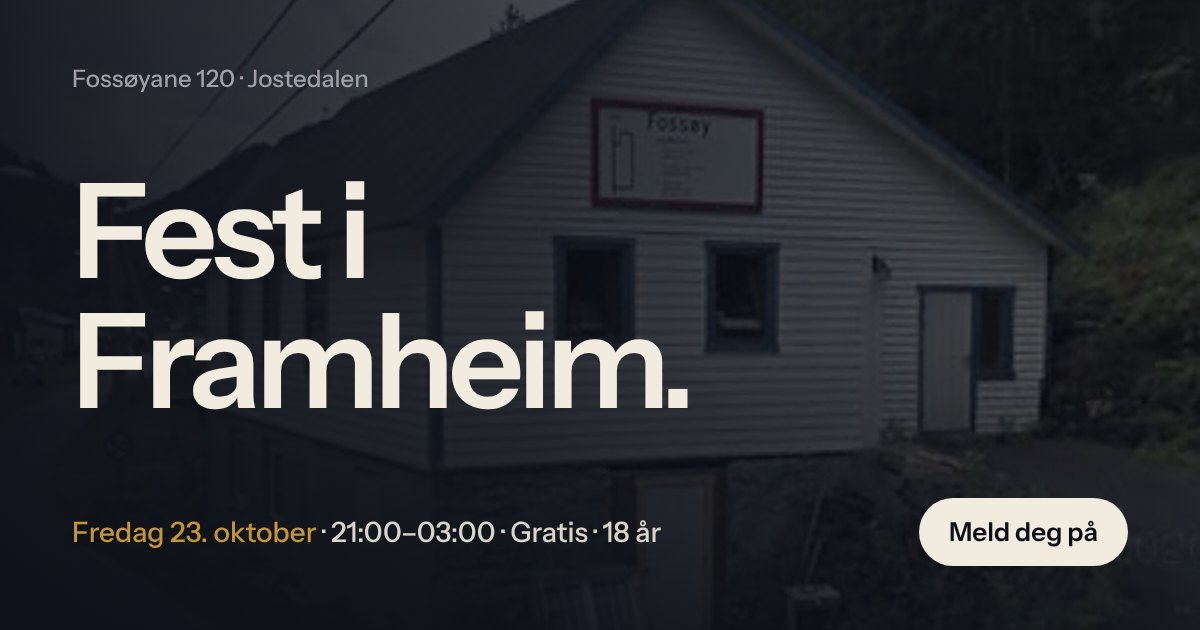
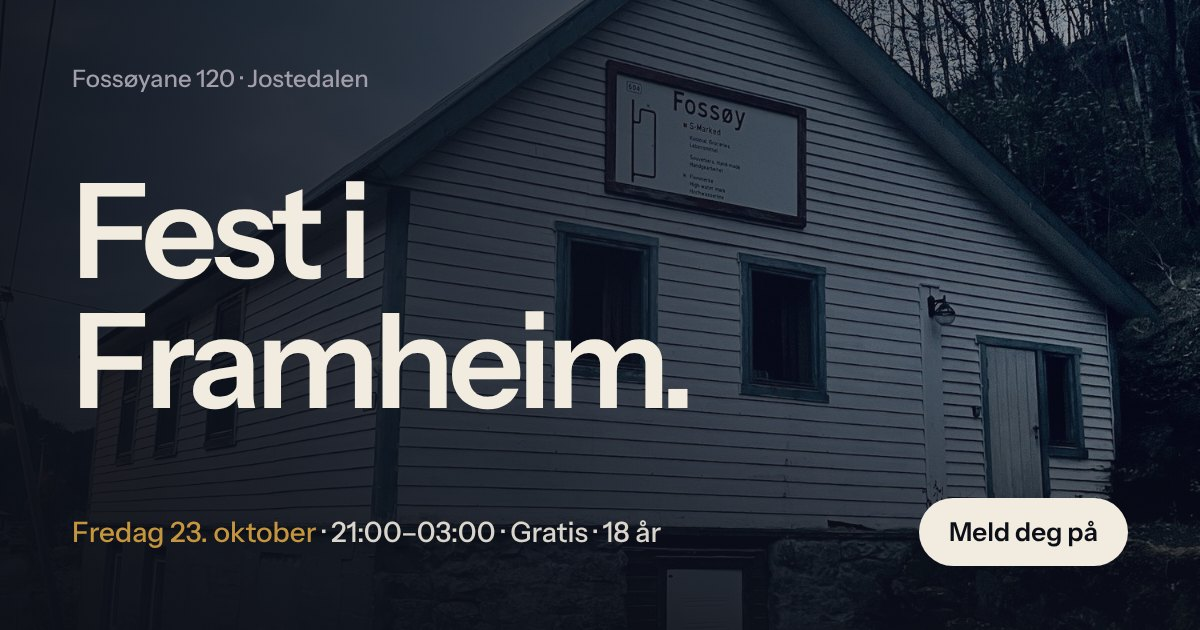
Eige bilde av Framheim i staden for Street View
Bytter herobilde, kortbilde, bakgrunn og delingsbilde. Fjernar Street View-kreditering.

Claude-Session: https://claude.ai/code/session_01BFSUhK2yiCJw7jCPQ975RP

diff --git a/index.html b/index.html
@@ -73,7 +73,7 @@ a{color:inherit}
 
 /* Hero */
 .hero{position:relative;isolation:isolate;min-height:0;display:flex;align-items:flex-end;overflow:hidden}
-.hero__bg{position:absolute;inset:-4%;z-index:-2;background:url("Bilder/framheim-hero.jpg") center 40%/cover no-repeat;filter:saturate(.65) contrast(1.05);transform:scale(1.02)}
+.hero__bg{position:absolute;inset:-4%;z-index:-2;background:url("Bilder/framheim.jpg") center 45%/cover no-repeat;filter:saturate(.65) contrast(1.05);transform:scale(1.02)}
 .hero::after{content:"";position:absolute;inset:0;z-index:-1;background:
   linear-gradient(180deg,rgba(12,15,23,.72) 0%,rgba(12,15,23,.62) 40%,rgba(12,15,23,.92) 85%,var(--night) 100%),
   radial-gradient(60% 50% at 80% 30%,rgba(217,164,65,.14),transparent 70%)}
@@ -110,12 +110,11 @@ a{color:inherit}
 /* Arrangementskort */
 .event{display:grid;background:var(--panel);border:1px solid var(--line);border-radius:var(--r-card);overflow:hidden}
 .event__media{position:relative;aspect-ratio:16/10;overflow:hidden}
-.event__media img{width:100%;height:100%;object-fit:cover;filter:saturate(.7) brightness(.85);transition:transform 1.2s var(--ease)}
+.event__media img{width:100%;height:100%;object-fit:cover;object-position:50% 55%;filter:saturate(.7) brightness(.85);transition:transform 1.2s var(--ease)}
 .event:hover .event__media img{transform:scale(1.04)}
 .date-badge{position:absolute;top:1rem;left:1rem;width:64px;padding:.5rem 0 .55rem;border-radius:14px;background:var(--text);color:var(--night);text-align:center;line-height:1}
 .date-badge b{display:block;font-size:1.625rem;font-weight:700;letter-spacing:-.03em}
 .date-badge small{display:block;margin-top:.3rem;font-size:.6875rem;font-weight:600;letter-spacing:.1em;text-transform:uppercase}
-.credit{position:absolute;right:.75rem;bottom:.6rem;font-size:.6875rem;color:rgba(241,235,224,.7)}
 .event__body{padding:clamp(1.5rem,4vw,2.5rem);display:flex;flex-direction:column}
 .event__title{font-weight:600;font-size:clamp(1.625rem,3.5vw,2.25rem);letter-spacing:-.03em;line-height:1.1}
 .event__place{color:var(--muted);margin-top:.35rem}
@@ -130,7 +129,7 @@ a{color:inherit}
 /* Påmelding */
 .signup{position:relative;overflow:hidden;border-radius:var(--r-card);isolation:isolate;
   padding:clamp(3rem,8vw,6rem) clamp(1.5rem,6vw,5rem);border:1px solid var(--line)}
-.signup::before{content:"";position:absolute;inset:0;z-index:-2;background:url("Bilder/framheim-gata.jpg") center/cover;filter:blur(18px) saturate(.5);transform:scale(1.2)}
+.signup::before{content:"";position:absolute;inset:0;z-index:-2;background:url("Bilder/framheim.jpg") center/cover;filter:blur(18px) saturate(.5);transform:scale(1.2)}
 .signup::after{content:"";position:absolute;inset:0;z-index:-1;background:linear-gradient(120deg,rgba(12,15,23,.94),rgba(12,15,23,.78))}
 .signup h2{font-weight:600;font-size:clamp(2.75rem,8vw,5.5rem);line-height:1;letter-spacing:-.045em;max-width:12ch}
 .signup p{max-width:42ch;margin-top:1.25rem;opacity:.85}
@@ -161,7 +160,8 @@ a{color:inherit}
   .hero__head{grid-template-columns:1fr auto;align-items:end;gap:3rem}
   .hero__side{padding-bottom:1rem}
   .event{grid-template-columns:1.05fr 1fr}
-  .event__media{aspect-ratio:auto;min-height:100%}
+  .event__media{aspect-ratio:auto;min-height:420px}
+  .event__media img{position:absolute;inset:0}
 }
 @media (prefers-reduced-motion:reduce){
   html{scroll-behavior:auto}
@@ -223,9 +223,8 @@ a{color:inherit}
       </div>
       <article class="event reveal">
         <div class="event__media">
-          <img src="Bilder/framheim-gata.jpg" alt="Framheim: kvitt trehus med blå vindaugskarmar ved vegen i Fossøyane" width="590" height="377" loading="lazy">
+          <img src="Bilder/framheim.jpg" alt="Framheim: kvitt trehus med blå vindaugskarmar ved vegen i Fossøyane" width="1500" height="2000" loading="lazy">
           <div class="date-badge" aria-hidden="true"><b>23</b><small>Okt</small></div>
-          <span class="credit">Bilde: Google Street View</span>
         </div>
         <div class="event__body">
           <h3 class="event__title">Fest i Framheim</h3>
